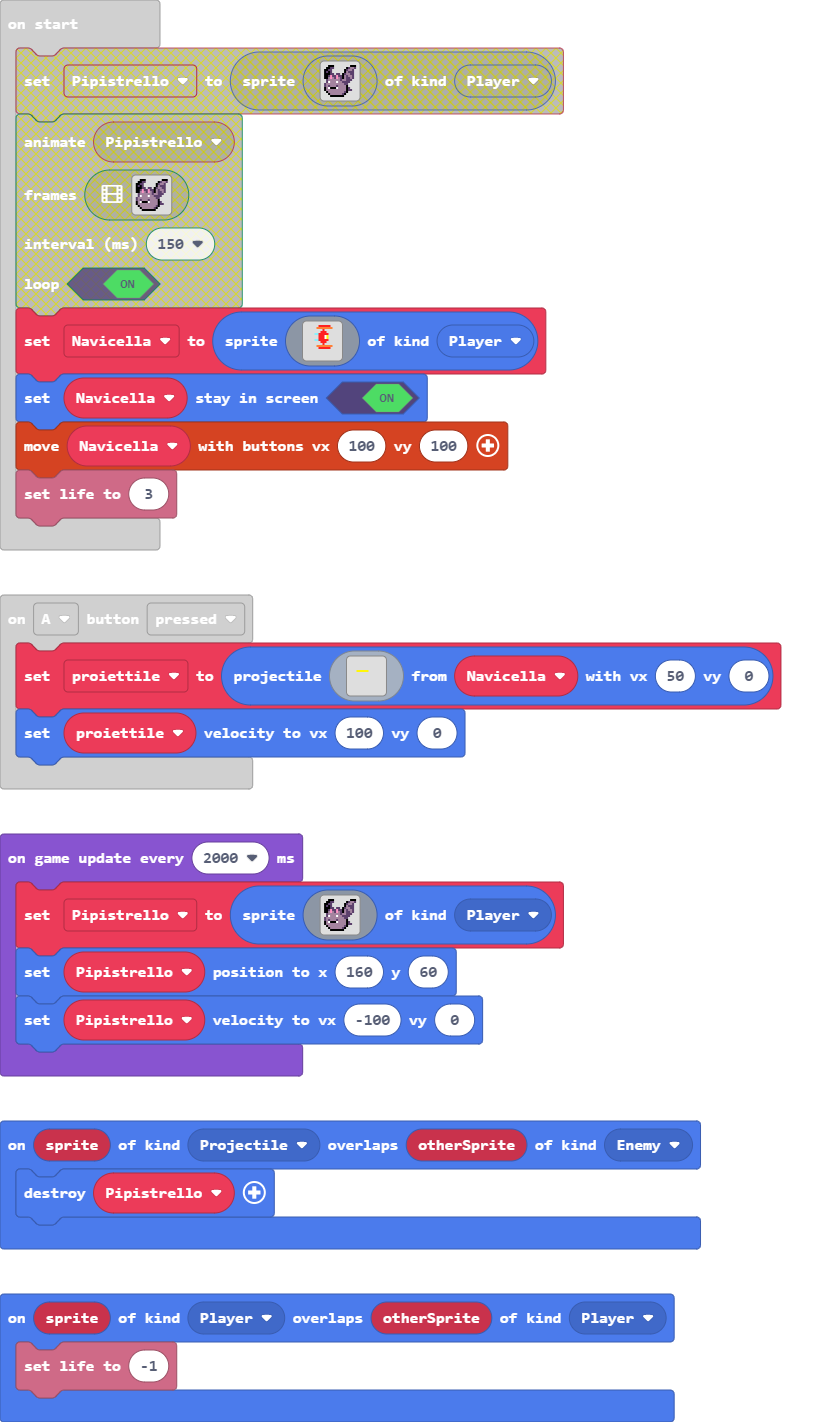
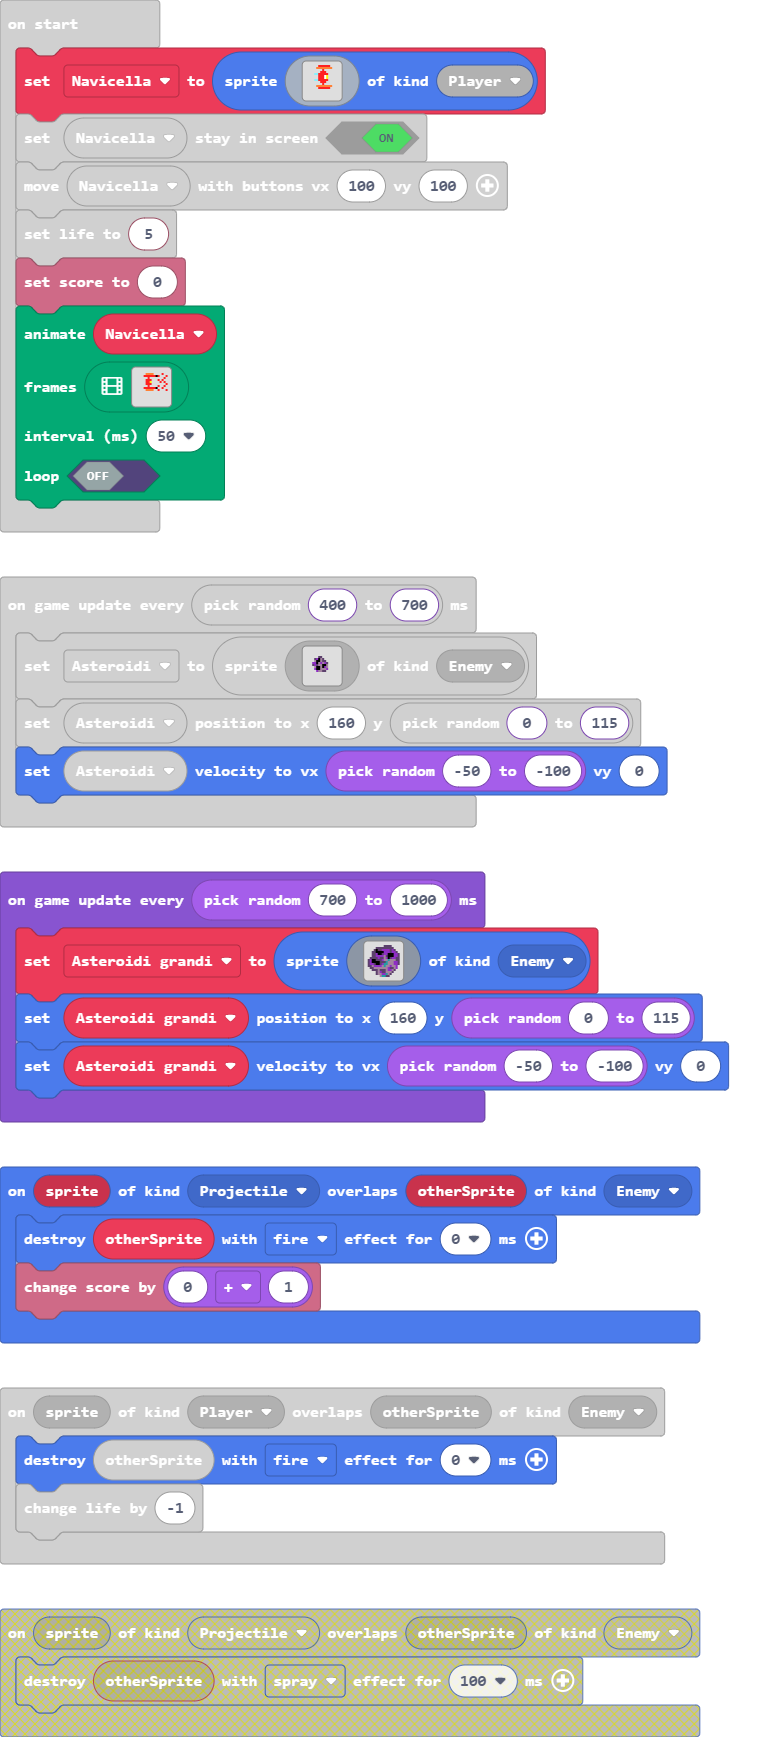
Update pxt.json, main.blocks, main.ts

diff --git a/main.ts b/main.ts
@@ -21,11 +21,13 @@ controller.A.onEvent(ControllerButtonEvent.Pressed, function () {
 })
 sprites.onOverlap(SpriteKind.Projectile, SpriteKind.Enemy, function (sprite, otherSprite) {
     otherSprite.destroy()
+    info.changeScoreBy(0 + 1)
 })
 sprites.onOverlap(SpriteKind.Player, SpriteKind.Enemy, function (sprite, otherSprite) {
     otherSprite.destroy()
     info.changeLifeBy(-1)
 })
+let Asteroidi_grandi: Sprite = null
 let Asteroidi: Sprite = null
 let proiettile: Sprite = null
 let Navicella: Sprite = null
@@ -49,8 +51,32 @@ Navicella = sprites.create(img`
     `, SpriteKind.Player)
 Navicella.setStayInScreen(true)
 controller.moveSprite(Navicella)
-info.setLife(3)
-game.onUpdateInterval(randint(200, 500), function () {
+info.setLife(5)
+info.setScore(0)
+animation.runImageAnimation(
+Navicella,
+[img`
+    . . . . . . . . . . . . . . . . 
+    . . . . . 4 4 4 4 . . . . 2 . . 
+    . . . . 2 2 2 2 2 2 f 2 . . . 2 
+    . . . . . . 2 . . . . . . . 2 . 
+    . . . . . 2 2 2 . . . 2 . 2 . . 
+    . . . . . 2 2 5 . . . . 2 . 2 . 
+    . . . . . 2 2 2 . . . . . . . 2 
+    . . . . . . 2 . . . . 2 . . 2 . 
+    . . . . 2 2 2 2 2 2 f . . 2 . . 
+    . . . . . 4 4 4 4 . . 2 . . . 2 
+    . . . . . . . . . . . . . . . . 
+    . . . . . . . . . . . . . . . . 
+    . . . . . . . . . . . . . . . . 
+    . . . . . . . . . . . . . . . . 
+    . . . . . . . . . . . . . . . . 
+    . . . . . . . . . . . . . . . . 
+    `],
+50,
+false
+)
+game.onUpdateInterval(randint(400, 700), function () {
     Asteroidi = sprites.create(img`
         . . . . . . . . . . . . . . . . 
         . . . . . . . . . . . . . . . . 
@@ -69,6 +95,28 @@ game.onUpdateInterval(randint(200, 500), function () {
         . . . . . . . . . . . . . . . . 
         . . . . . . . . . . . . . . . . 
         `, SpriteKind.Enemy)
-    Asteroidi.setPosition(160, randint(20, 100))
-    Asteroidi.setVelocity(-100, 0)
+    Asteroidi.setPosition(160, randint(0, 115))
+    Asteroidi.setVelocity(randint(-50, -100), 0)
+})
+game.onUpdateInterval(randint(700, 1000), function () {
+    Asteroidi_grandi = sprites.create(img`
+        . . . . . . . . c c c c . . . . 
+        . . . . c c c c c c c c c . . . 
+        . . . c f c c a a a a c a c . . 
+        . . c c f f f f a a a c a a c . 
+        . . c c a f f c a a f f f a a c 
+        . . c c a a a a b c f f f a a c 
+        . c c c c a c c b a f c a a c c 
+        c a f f c c c a b b 6 b b b c c 
+        c a f f f f c c c 6 b b b a a c 
+        c a a c f f c a 6 6 b b b a a c 
+        c c b a a a a b 6 b b a b b a . 
+        . c c b b b b b b b a c c b a . 
+        . . c c c b c c c b a a b c . . 
+        . . . . c b a c c b b b c . . . 
+        . . . . c b b a a 6 b c . . . . 
+        . . . . . . b 6 6 c c . . . . . 
+        `, SpriteKind.Enemy)
+    Asteroidi_grandi.setPosition(160, randint(0, 115))
+    Asteroidi_grandi.setVelocity(randint(-50, -100), 0)
 })
